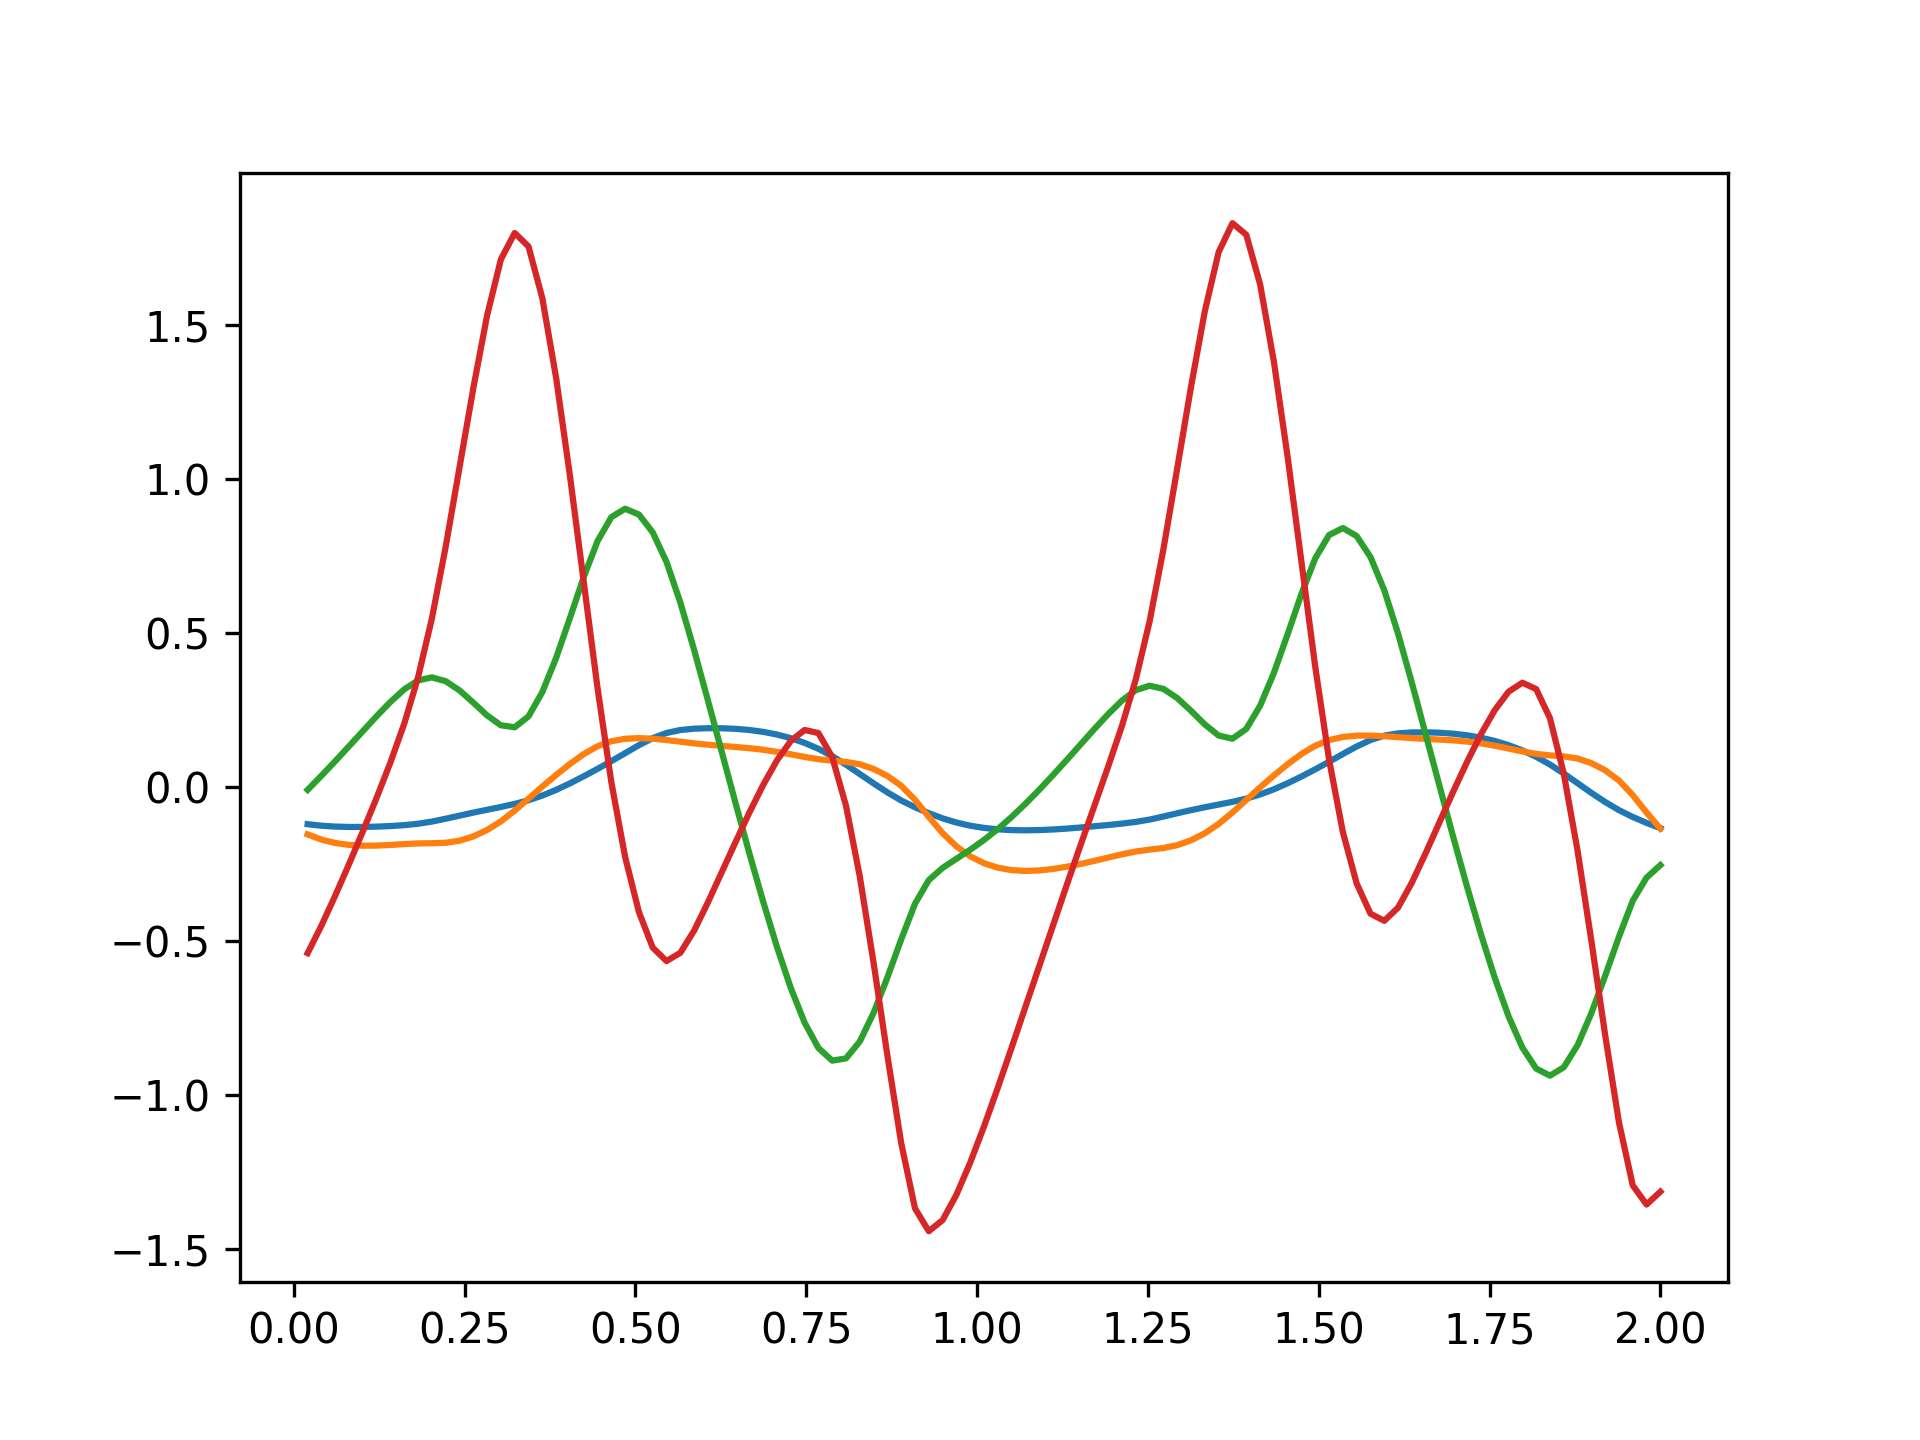
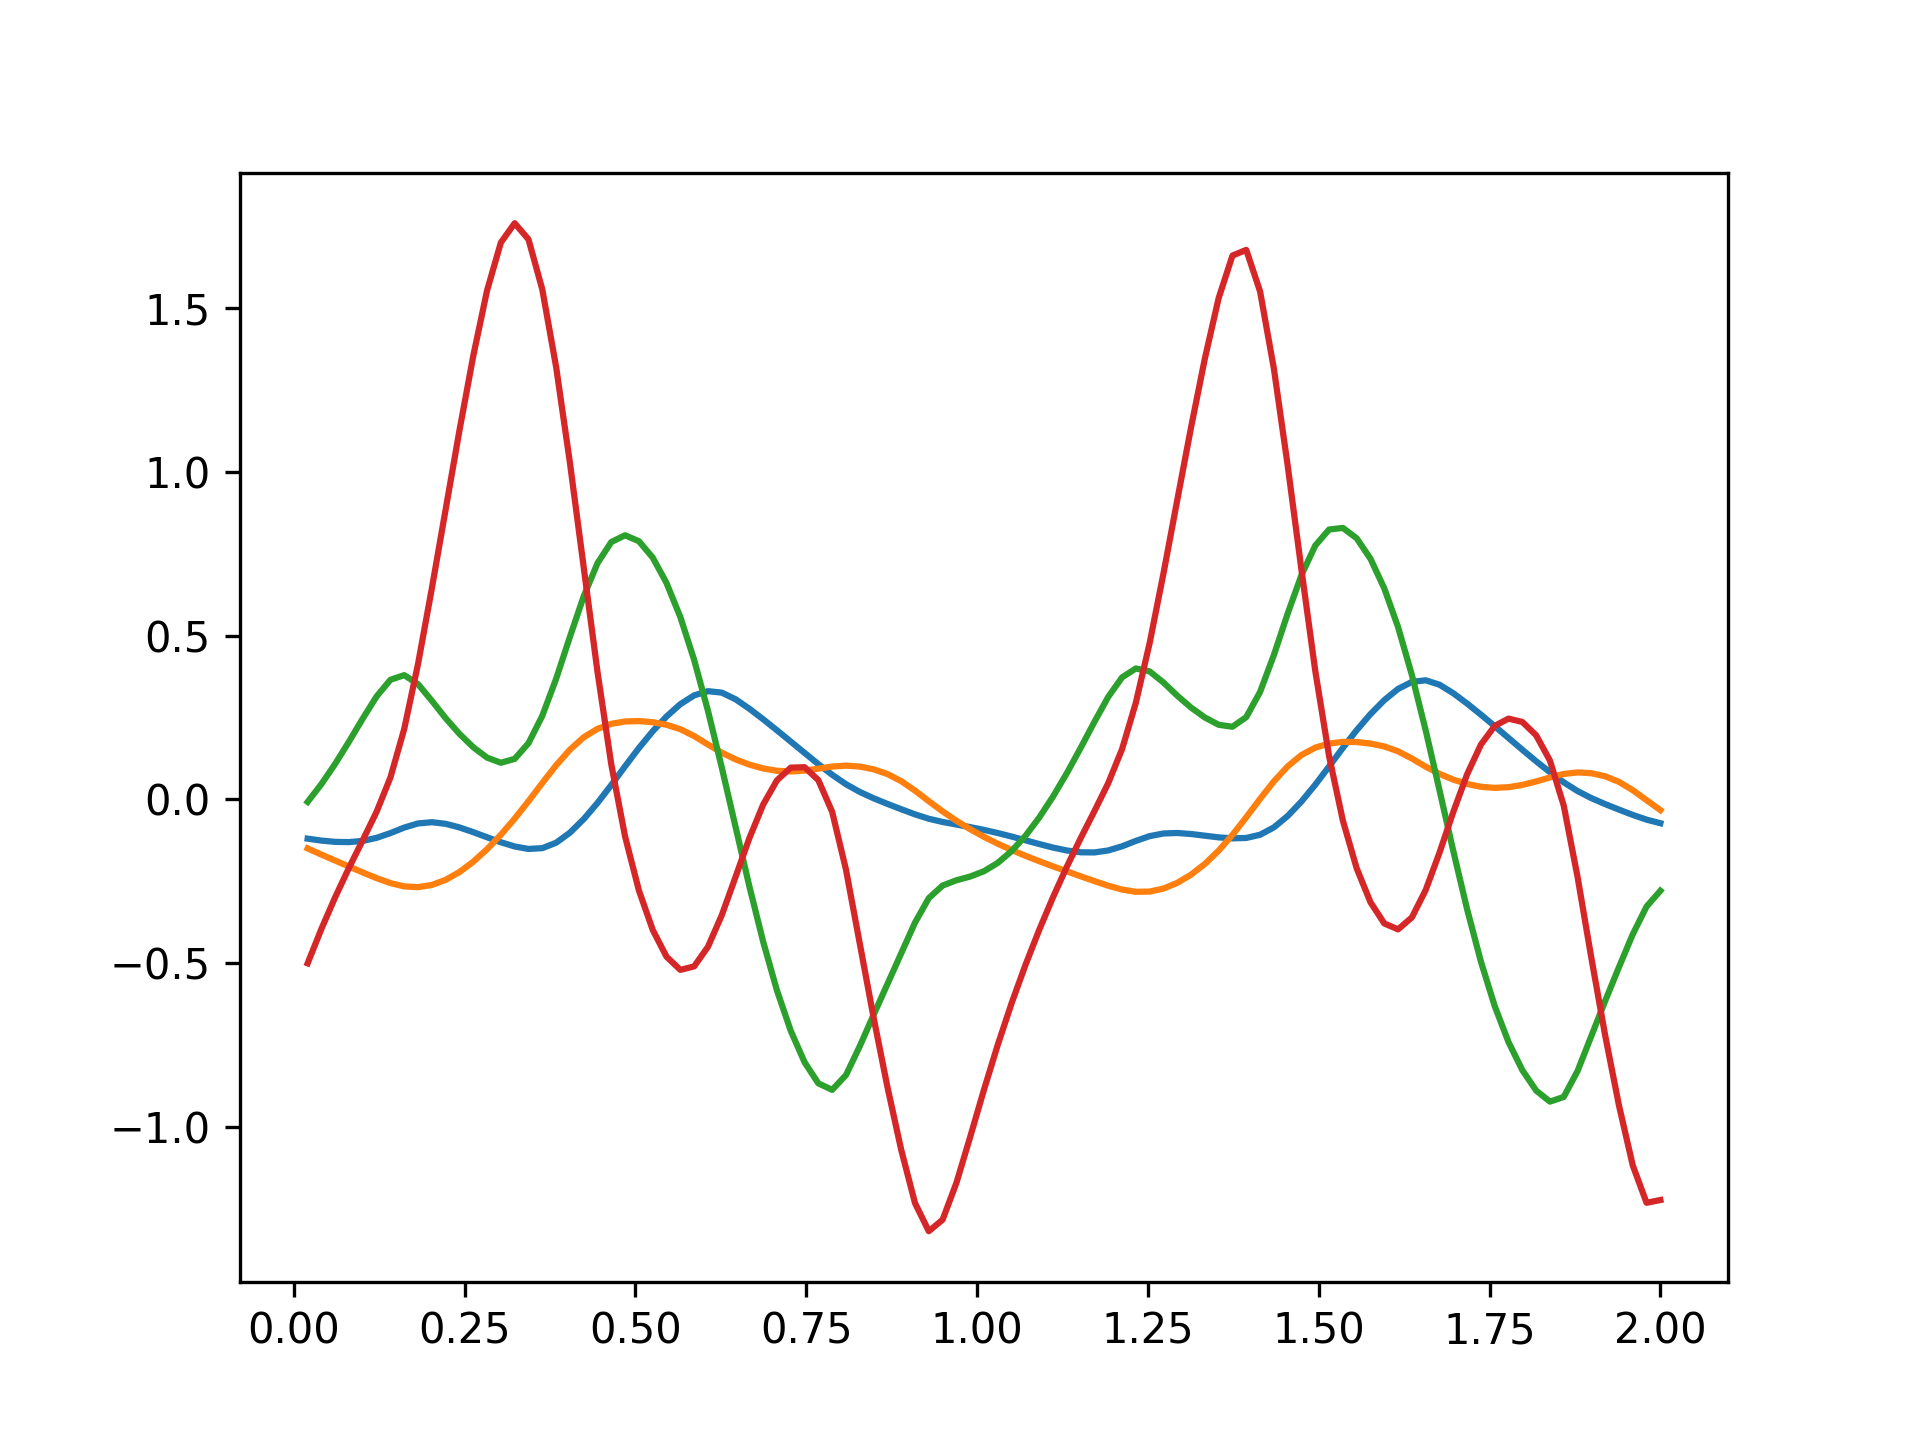
RK4 oscillator experiment finished

diff --git a/experiments/realdata/main.py b/experiments/realdata/main.py
@@ -76,7 +76,7 @@ if __name__ == "__main__":
     y0 = xs[0]
     t1 = ts[-1]
     dt0 = ts[1] - ts[0]
-    solver = dfx.RK4Simple()
+    solver = dfx.RK3Simple()
 
     ts, ys_pred = train(
         vf,
@@ -87,7 +87,7 @@ if __name__ == "__main__":
         adjoint,
         solver,
         args=None,
-        ode_model_name="double_linear",
+        ode_model_name="double_linear_RK3",
         steps=10000,
     )
 
